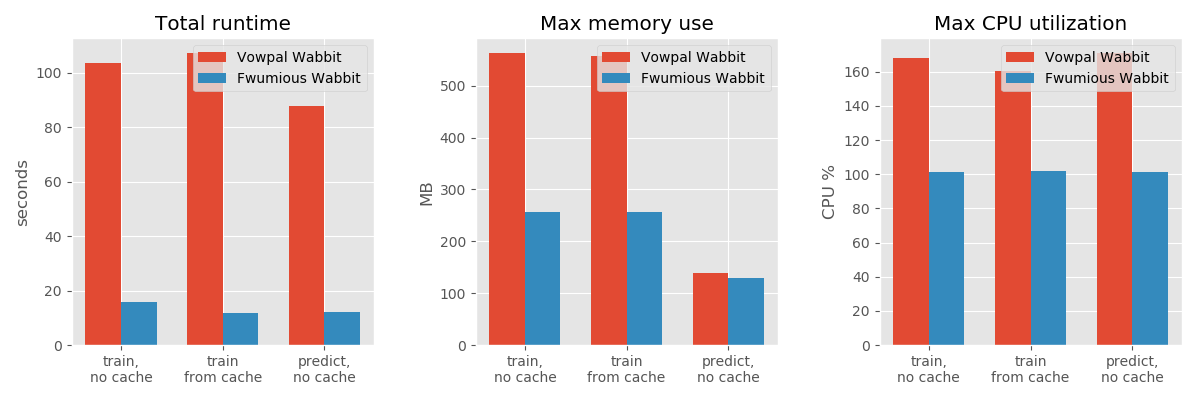
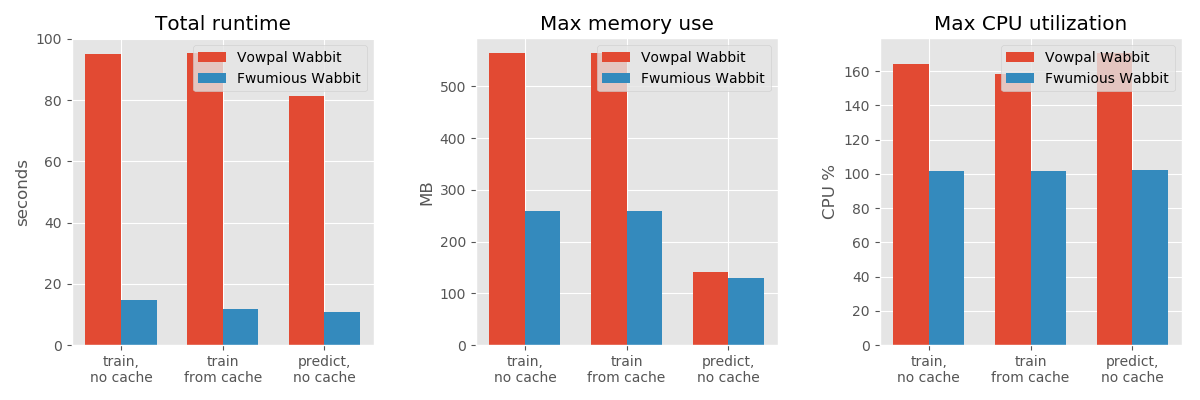
bumping version & benchmark info

diff --git a/src/version.rs b/src/version.rs
@@ -1,1 +1,1 @@
-pub static LATEST: &str = "0.2";
+pub static LATEST: &str = "1.2";

diff --git a/BENCHMARK.md b/BENCHMARK.md
@@ -14,12 +14,12 @@ here are the results for 3 runs for each scenario, taking mean values:
 ![benchmark results](benchmark_results.png)
 Scenario|Runtime (seconds)|Memory (MB)|CPU %
 ----|----:|----:|----:
-vw train, no cache|103.42 | 563 | 168.27
-fw train, no cache|15.82 | 257 | 101.27
-vw train, using cache|107.28 | 558 | 160.57
-fw train, using cache|11.95 | 257 | 101.77
-vw predict, no cache|87.97 | 139 | 171.07
-fw predict, no cache|12.17 | 129 | 101.60
+vw train, no cache|95.06 | 565 | 164.23
+fw train, no cache|14.77 | 258 | 101.97
+vw train, using cache|95.39 | 565 | 158.13
+fw train, using cache|11.70 | 258 | 101.83
+vw predict, no cache|81.49 | 141 | 170.70
+fw predict, no cache|10.64 | 130 | 102.17
 
 ### Model equivalence
 loss values for the test set:
@@ -81,8 +81,8 @@ or, if you just want the numbers with less dependencies run:
 
 ### versions:
 ```
-vowpal wabbit 8.9.0 (git commit: cfa6749a9)
-fwumious wabbit 0.2 (git commit: 6f51a4d)
+vowpal wabbit 8.9.2 (git commit: 884420267)
+fwumious wabbit 1.2 (git commit: 3e133bf)
 ```
 
 ### CPU Info
@@ -92,5 +92,5 @@ Intel(R) Xeon(R) CPU E5-2630 v2 @ 2.60GHz
 ### Operating System
 ```
 System: Linux
-Version: #186-Ubuntu SMP Mon Dec 4 19:09:19 UTC 2017
+Version: #174~14.04.1-Ubuntu SMP Thu May 9 08:17:37 UTC 2019
 ```
